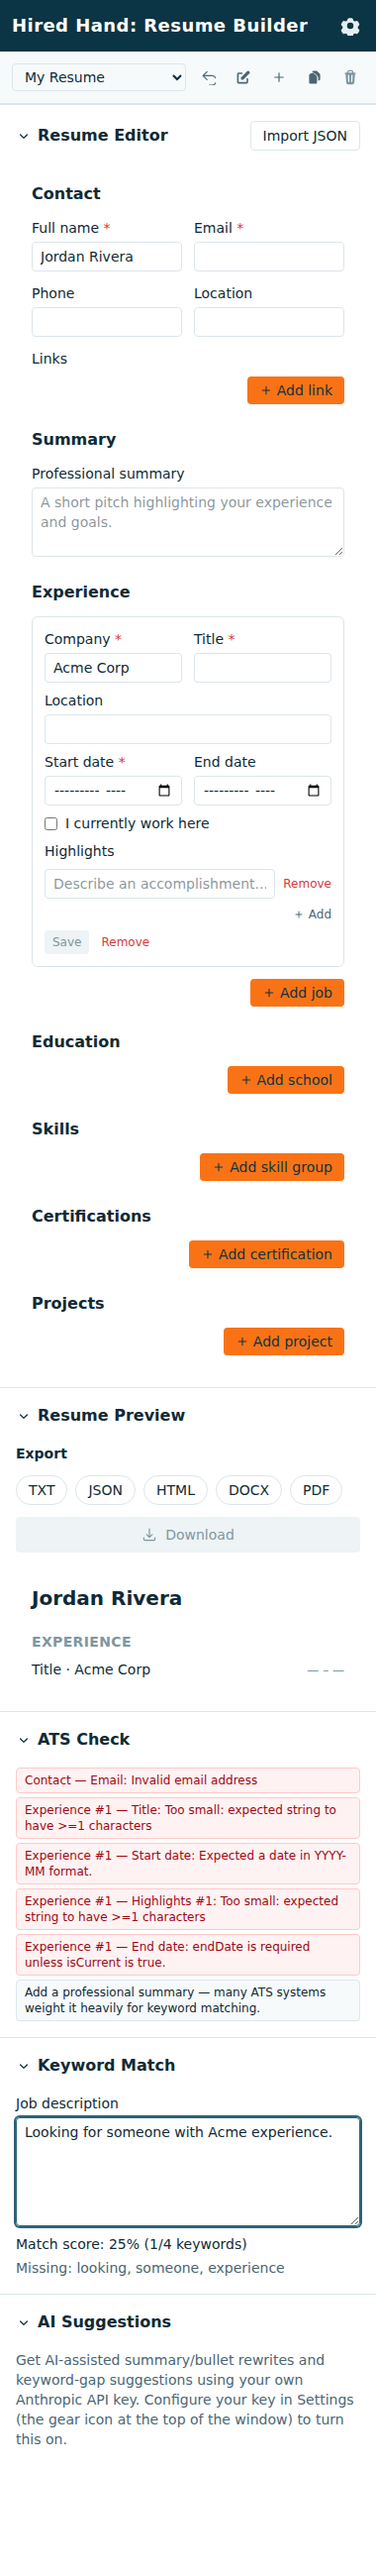
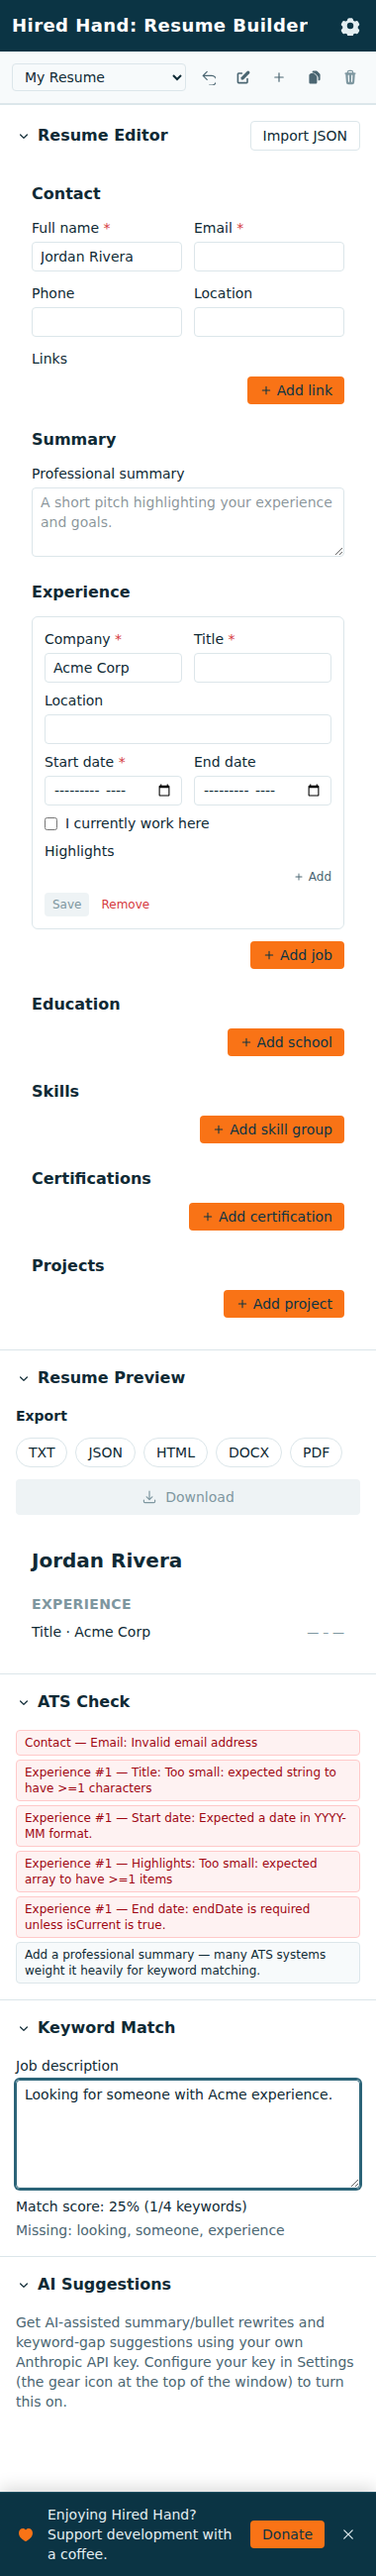
Fix blank-highlight seeding bug; add a dismissible donate toast
- createBlankExperienceEntry seeded highlights: [''] (a phantom blank
  row), inconsistent with Education/Projects which start empty. Saving
  without touching that row silently produced a resume that failed ATS
  structural validation with a confusing "Highlights #1: too small"
  message. Now starts empty like the others, surfacing the clearer
  "add at least one highlight" error instead.
- Add a small dismissible banner at the bottom of the side panel with a
  Donate button (existing Stripe link from the README) and a close
  button; the dismissal is remembered in chrome.storage.local so it
  doesn't reappear once closed.

Claude-Session: https://claude.ai/code/session_01Wrqciepb3UPmd3nU3zfSdw

diff --git a/src/sidepanel/hooks/useDonateToast.ts b/src/sidepanel/hooks/useDonateToast.ts
@@ -1,0 +1,52 @@
+import { useEffect, useState } from 'react';
+
+const DONATE_TOAST_DISMISSED_KEY = 'hiredHand.donateToastDismissed.v1';
+
+export interface UseDonateToastResult {
+  /** False until the initial load from chrome.storage has settled, to
+   * avoid a flash of the toast before a prior dismissal is known. */
+  isLoaded: boolean;
+  isVisible: boolean;
+  dismiss: () => void;
+}
+
+/** Whether the user has already closed the donate toast, backed by
+ * `chrome.storage.local` so the dismissal persists across sessions. */
+export function useDonateToast(): UseDonateToastResult {
+  const [isDismissed, setIsDismissed] = useState(false);
+  const [isLoaded, setIsLoaded] = useState(false);
+
+  useEffect(() => {
+    let cancelled = false;
+
+    chrome.storage.local
+      .get(DONATE_TOAST_DISMISSED_KEY)
+      .then((stored) => {
+        if (!cancelled) {
+          setIsDismissed(Boolean(stored[DONATE_TOAST_DISMISSED_KEY]));
+          setIsLoaded(true);
+        }
+      })
+      .catch((error: unknown) => {
+        console.error('Failed to load donate toast state from storage.', error);
+        if (!cancelled) {
+          setIsLoaded(true);
+        }
+      });
+
+    return () => {
+      cancelled = true;
+    };
+  }, []);
+
+  function dismiss(): void {
+    setIsDismissed(true);
+    chrome.storage.local
+      .set({ [DONATE_TOAST_DISMISSED_KEY]: true })
+      .catch((error: unknown) => {
+        console.error('Failed to save donate toast dismissal.', error);
+      });
+  }
+
+  return { isLoaded, isVisible: isLoaded && !isDismissed, dismiss };
+}

diff --git a/src/sidepanel/App.tsx b/src/sidepanel/App.tsx
@@ -7,6 +7,7 @@ import {
   KeywordMatchSection,
   StructuralChecksSection,
 } from './components/AtsPanel';
+import { DonateToast } from './components/DonateToast';
 import { ExportPanel } from './components/ExportPanel';
 import { ChevronUpIcon } from './components/icons';
 import { ImportPanel } from './components/ImportPanel';
@@ -15,6 +16,7 @@ import { ResumeForm } from './components/ResumeForm';
 import { ResumePreview } from './components/ResumePreview';
 import { SettingsPanel } from './components/SettingsPanel';
 import { useAiSettings } from './hooks/useAiSettings';
+import { useDonateToast } from './hooks/useDonateToast';
 import { useResumeProfiles } from './hooks/useResumeProfiles';
 
 const SCROLL_TOP_THRESHOLD = 200;
@@ -34,6 +36,7 @@ export function App(): ReactElement {
     undoActiveResume,
   } = useResumeProfiles();
   const { apiKey, saveApiKey, forgetApiKey } = useAiSettings();
+  const donateToast = useDonateToast();
   const [isSettingsOpen, setIsSettingsOpen] = useState(false);
   const [showGoToTop, setShowGoToTop] = useState(false);
   const mainRef = useRef<HTMLElement>(null);
@@ -135,6 +138,7 @@ export function App(): ReactElement {
           </button>
         )}
       </div>
+      {donateToast.isVisible && <DonateToast onClose={donateToast.dismiss} />}
     </div>
   );
 }

diff --git a/src/sidepanel/components/DonateToast.tsx b/src/sidepanel/components/DonateToast.tsx
@@ -1,0 +1,40 @@
+import type { ReactElement } from 'react';
+
+import { CloseIcon, HeartIcon } from './icons';
+
+const DONATE_URL = 'https://donate.stripe.com/00w5kD3Gj1Xo9v7gVOcs800';
+
+interface DonateToastProps {
+  onClose: () => void;
+}
+
+export function DonateToast({ onClose }: DonateToastProps): ReactElement {
+  return (
+    <div
+      role="status"
+      className="flex items-center gap-3 border-t border-brand-700 bg-brand-900 px-4 py-3 text-white shadow-[0_-4px_16px_rgba(0,0,0,0.15)]"
+    >
+      <HeartIcon className="h-5 w-5 shrink-0 text-accent-600" />
+      <p className="min-w-0 flex-1 text-sm text-brand-100">
+        Enjoying Hired Hand? Support development with a coffee.
+      </p>
+      <a
+        href={DONATE_URL}
+        target="_blank"
+        rel="noreferrer"
+        className="shrink-0 rounded bg-accent-600 px-3 py-1 text-sm font-medium text-on-accent hover:bg-accent-700"
+      >
+        Donate
+      </a>
+      <button
+        type="button"
+        onClick={onClose}
+        aria-label="Dismiss"
+        title="Dismiss"
+        className="shrink-0 rounded p-1 text-brand-100 hover:bg-brand-700 hover:text-white"
+      >
+        <CloseIcon />
+      </button>
+    </div>
+  );
+}

diff --git a/src/sidepanel/components/icons.tsx b/src/sidepanel/components/icons.tsx
@@ -140,6 +140,36 @@ export function ChevronUpIcon({
   );
 }
 
+export function HeartIcon({ className = 'h-4 w-4' }: IconProps): ReactElement {
+  return (
+    <svg
+      viewBox="0 0 20 20"
+      fill="currentColor"
+      aria-hidden="true"
+      className={className}
+    >
+      <path d="M9.653 16.915a.75.75 0 0 0 .694 0c1.937-1.014 6.653-3.826 6.653-8.088C17 5.921 15.13 4 12.833 4 11.62 4 10.53 4.596 10 5.53 9.47 4.596 8.38 4 7.167 4 4.871 4 3 5.921 3 8.827c0 4.262 4.716 7.074 6.653 8.088Z" />
+    </svg>
+  );
+}
+
+export function CloseIcon({ className = 'h-4 w-4' }: IconProps): ReactElement {
+  return (
+    <svg
+      viewBox="0 0 20 20"
+      fill="currentColor"
+      aria-hidden="true"
+      className={className}
+    >
+      <path
+        fillRule="evenodd"
+        d="M5.28 4.22a.75.75 0 0 0-1.06 1.06L8.94 10l-4.72 4.72a.75.75 0 1 0 1.06 1.06L10 11.06l4.72 4.72a.75.75 0 1 0 1.06-1.06L11.06 10l4.72-4.72a.75.75 0 0 0-1.06-1.06L10 8.94 5.28 4.22Z"
+        clipRule="evenodd"
+      />
+    </svg>
+  );
+}
+
 /** A checkbox-style glyph used as a clickable "confirm/save" button, not a
  * native checked/unchecked toggle. */
 export function CheckboxIcon({

diff --git a/src/lib/resume/blank.ts b/src/lib/resume/blank.ts
@@ -33,7 +33,7 @@ export function createBlankExperienceEntry(): ExperienceEntry {
     title: '',
     startDate: '',
     isCurrent: false,
-    highlights: [''],
+    highlights: [],
   };
 }
 
